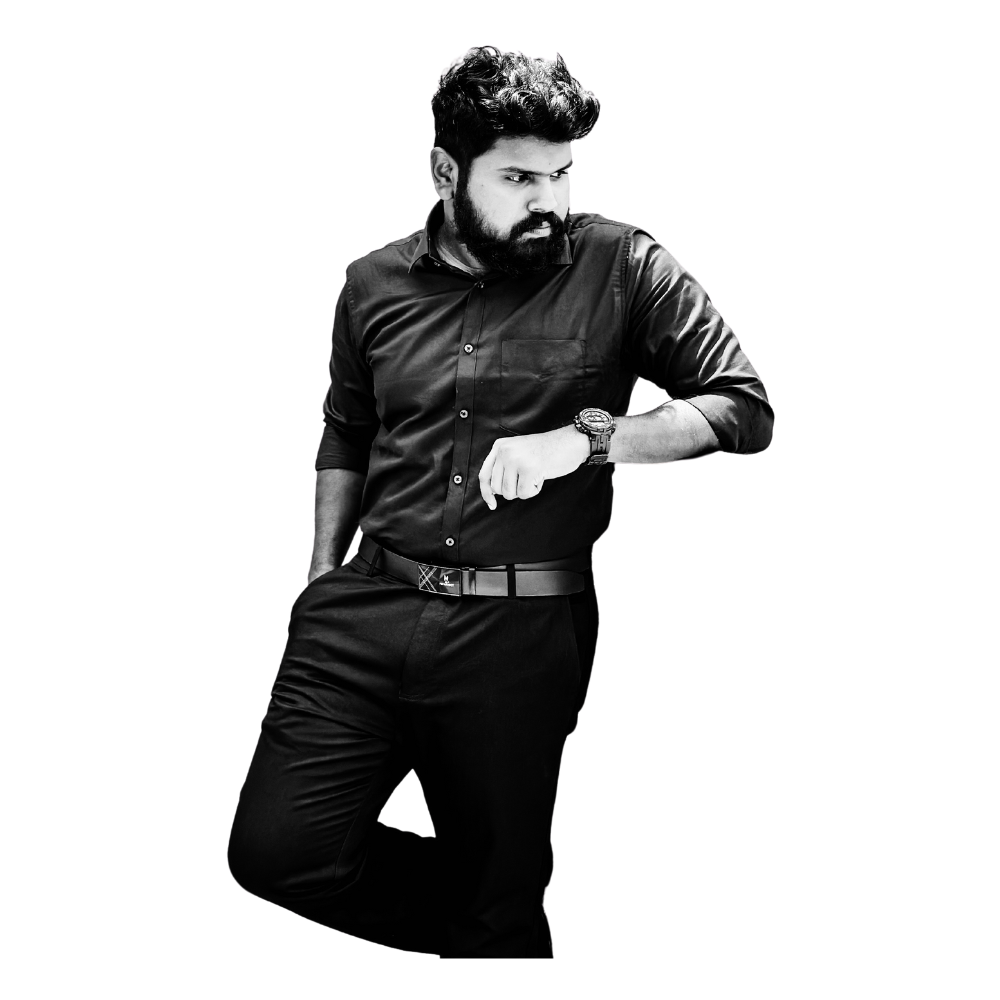
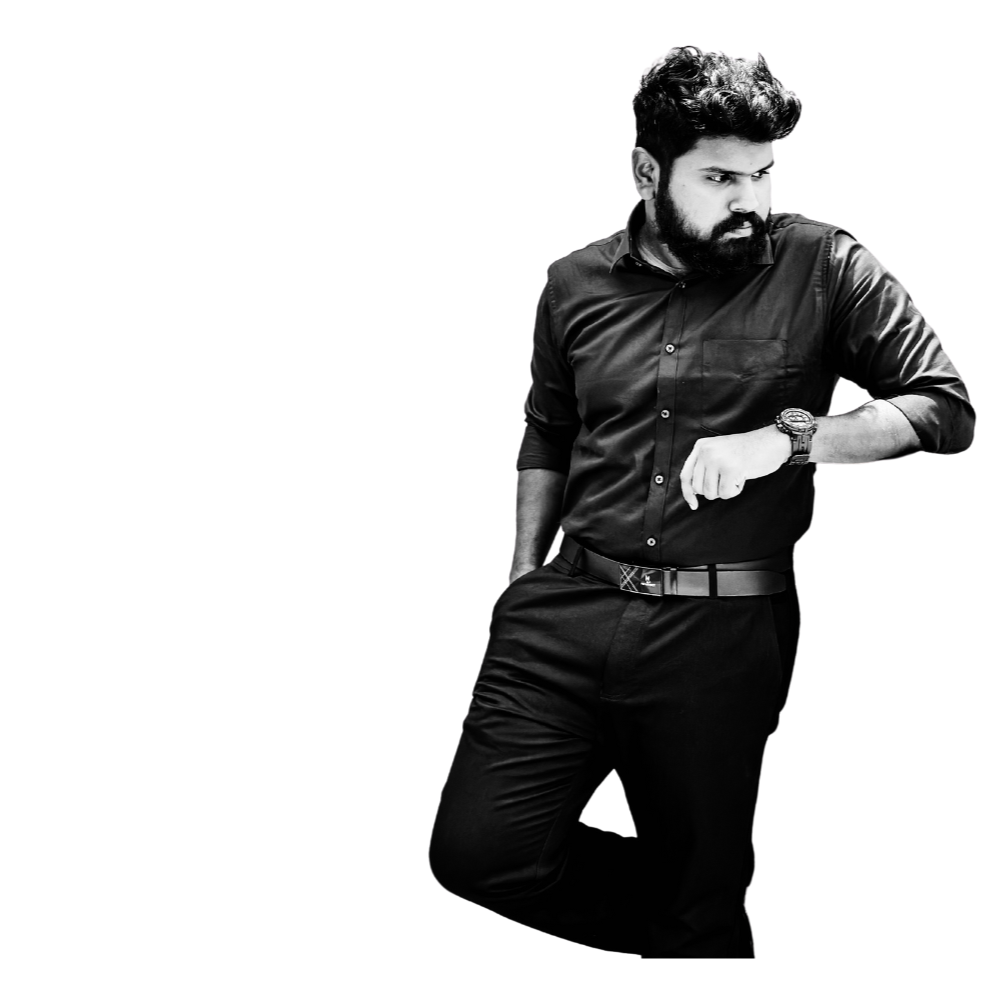
Updated card view for work and made them responsive

diff --git a/app/page.tsx b/app/page.tsx
@@ -30,7 +30,7 @@ export default function Home() {
   };
 
   return (
-    <body className={poppins2.className}>
+    <div className={poppins2.className}>
       <div>
         <MainNavBar></MainNavBar>
         <div className="bg-black">
@@ -131,7 +131,7 @@ export default function Home() {
                     alt="Gihan Image"
                     width={600}
                     height={600}
-                    className="z-10 transform scale-100 mt-8 md:mt-0 translate-y-[-180px] translate-x-[50px] md:-translate-y-[100px] md:translate-x-[50px] transition-transform duration-500 ease-out"
+                    className="z-10 transform scale-100 mt-8 md:mt-0 translate-y-[-180px] translate-x-[-40px] md:-translate-y-[100px] md:translate-x-[-60px] transition-transform duration-500 ease-out"
                   />
 
                   {/* Rotated Text on Small Screens */}
@@ -278,85 +278,78 @@ export default function Home() {
             </div>
           </section>
 
-          <div className="flex flex-col py-[200px] justify-center items-center relative ">
+          <div className="flex flex-col sm:py-[150px] justify-center items-center relative ">
             <h1
               id="work"
-              className={`${poppins5.className} absolute text-[60px] sm:text-[100px] md:text-[200px] font-extrabold text-gray-300 -mt-[750px] md:-mt-[100px]`}
+              className={`${poppins5.className} absolute text-[60px] sm:text-[100px] md:text-[200px] font-extrabold text-gray-300 -mt-[250px] md:-mt-[100px]`}
             >
               Work
               <span className="text-[#FF4401]">.</span>
             </h1>
           </div>
-          <div className="mt-[-450px] sm:mt-[-50px]" >
+          
+          <div className="flex flex-col items-center">
+            
+            {/* Include the CategoryFilter component */}
             <CategoryFilter
               categories={categories}
               onSelectCategory={handleCategoryChange}
             />
-            <section className="px-4 py-12">
-              {/* You would display filtered projects based on the selected category here */}
+          </div>
+
+          {/* Projects Section */}
+          <div className="px-4">
+            
+            
+              {/* Here you'd dynamically load projects based on the selected category */}
+
               {selectedCategory === "Swift" && (
-                <div className="p-4">
-                  <div className="justify-items-center grid grid-cols-1 sm:grid-cols-2 lg:grid-cols-3 grid-rows-2 gap-y-[100px] gap-x-[0px] xl:px-[100px]">
-                    <div>
-                      <Card
-                        image="/figma.png"
-                        title="Sample Title"
-                        description="This is a sample description for the card."
-                        seeMoreLink="https://example.com"
-                      />
-                    </div>
-                    <div>
-                      <Card
-                        image="/figma.png"
-                        title="Sample Title"
-                        description="This is a sample description for the card."
-                        seeMoreLink="https://example.com"
-                      />
-                    </div>
-                    <div>
-                      <Card
-                        image="/figma.png"
-                        title="Sample Title"
-                        description="This is a sample description for the card."
-                        seeMoreLink="https://example.com"
-                      />
-                    </div>
-                    <div>
-                      <Card
-                        image="/figma.png"
-                        title="Sample Title"
-                        description="This is a sample description for the card."
-                        seeMoreLink="https://example.com"
-                      />
-                    </div>
-                    <div>
-                      <Card
-                        image="/figma.png"
-                        title="Sample Title"
-                        description="This is a sample description for the card."
-                        seeMoreLink="https://example.com"
-                      />
-                    </div>
-                    <div>
-                      <Card
-                        image="/figma.png"
-                        title="Sample Title"
-                        description="This is a sample description for the card."
-                        seeMoreLink="https://example.com"
-                      />
-                    </div>
-                  </div>
+                <div>
+                <div className="py-[50px] px-[10px] sm:px-[30px] md:px-[80px] lg:px-[250px] flex justify-items-center">
+                  <Card
+                    image="/CLAWS.png"
+                    title="CLAWS – Cultivated Lands Animal Warning System"
+                    description="Embedded system that identifies harmful animals for crops in Sri Lanka with machine learning models and cloud computing technologies. "
+                    seeMoreLink="https://example.com"
+                  />
                 </div>
+                <div className="py-[50px] px-[10px] sm:px-[30px] md:px-[80px] lg:px-[250px] flex justify-items-center">
+                  <Card
+                    image="/TailCast.png"
+                    title="TailCast"
+                    description="AI powered IOS app that work as an All-in-one library including e-books, generate short stories and real-time audio books."
+                    seeMoreLink="https://example.com"
+                  />
+                </div>
+              </div>
+              
               )}
               {selectedCategory === "UI/UX" && (
-                <p>Displaying UI/UX projects...</p>
+                <div>
+                <div className="py-[50px] px-[10px] sm:px-[30px] md:px-[80px] lg:px-[250px] flex justify-items-center">
+                  <Card
+                    image="/CLAWS.png"
+                    title="CLAWS – Cultivated Lands Animal Warning System"
+                    description="Embedded system that identifies harmful animals for crops in Sri Lanka with machine learning models and cloud computing technologies. "
+                    seeMoreLink="https://example.com"
+                  />
+                </div>
+                <div className="py-[50px] px-[10px] sm:px-[30px] md:px-[80px] lg:px-[250px] flex justify-items-center">
+                  <Card
+                    image="/TailCast.png"
+                    title="TailCast"
+                    description="AI powered IOS app that work as an All-in-one library including e-books, generate short stories and real-time audio books."
+                    seeMoreLink="https://example.com"
+                  />
+                </div>
+              </div>
               )}
               {selectedCategory === "Web" && <p>Displaying Web projects...</p>}
               {selectedCategory === "ML" && <p>Displaying ML projects...</p>}
-            </section>
+            
           </div>
         </div>
       </div>
-    </body>
+    </div>
   );
 }

diff --git a/components/card.tsx b/components/card.tsx
@@ -9,10 +9,10 @@ type CardProps = {
 
 const Card: React.FC<CardProps> = ({ image, title, description, seeMoreLink }) => {
   return (
-    <div className="max-w-xs w-full bg-[#18181b] border-[1px] border-white text-white rounded-xl overflow-hidden shadow-lg p-4">
-      <div className="w-full h-48 bg-gray-900 flex justify-center items-center rounded-md mb-4">
+    <div className="bg-[#18181b] border-[1px] border-white text-white rounded-[48px] overflow-hidden shadow-lg p-4">
+      <div className="flex justify-center items-center rounded-[38px] mb-4">
         {image ? (
-          <img src={image} alt={title} className="object-cover h-full w-full rounded-md" />
+          <img src={image} alt={title} className="w-auto h-auto max-w-full rounded-[38px]" />
         ) : (
           <span className="text-gray-400">Image</span>
         )}
@@ -24,9 +24,9 @@ const Card: React.FC<CardProps> = ({ image, title, description, seeMoreLink }) =
       <div className="mt-4 flex justify-end">
         <a
           href={seeMoreLink}
-          className="bg-[#FF4401] text-white px-4 py-2 rounded-full text-sm hover:bg-orange-600 transition-colors"
+          className="bg-[#FF4401] text-white px-4 py-2 sm:px-7 md:py-4 rounded-full text-sm md:text-lg hover:bg-[orange]-100 transition-colors"
         >
-          See more...
+          See more
         </a>
       </div>
     </div>

diff --git a/components/filter.tsx b/components/filter.tsx
@@ -15,18 +15,18 @@ const CategoryFilter: React.FC<CategoryFilterProps> = ({ categories, onSelectCat
   };
 
   return (
-    <div className="flex justify-center space-x-[50px] sm:space-x-[100px] md:space-x-[200px] text-white text-[20px] sm:text-[25px] md:text-[25px]">
+    <div className="flex justify-center space-x-[70px] sm:space-x-[170px] text-white text-lg">
       {categories.map((category) => (
         <div
           key={category}
           className={`cursor-pointer ${
-            activeCategory === category ? 'text-[#FF4401]' : 'text-white'
+            activeCategory === category ? 'text-orange-500' : 'text-white'
           }`}
           onClick={() => handleClick(category)}
         >
           {category}
           {activeCategory === category && (
-            <div className="h-1 mt-1 bg-[#FF4401]"></div>
+            <div className="h-1 mt-1 bg-orange-500"></div>
           )}
         </div>
       ))}
@@ -35,4 +35,3 @@ const CategoryFilter: React.FC<CategoryFilterProps> = ({ categories, onSelectCat
 };
 
 export default CategoryFilter;
-
